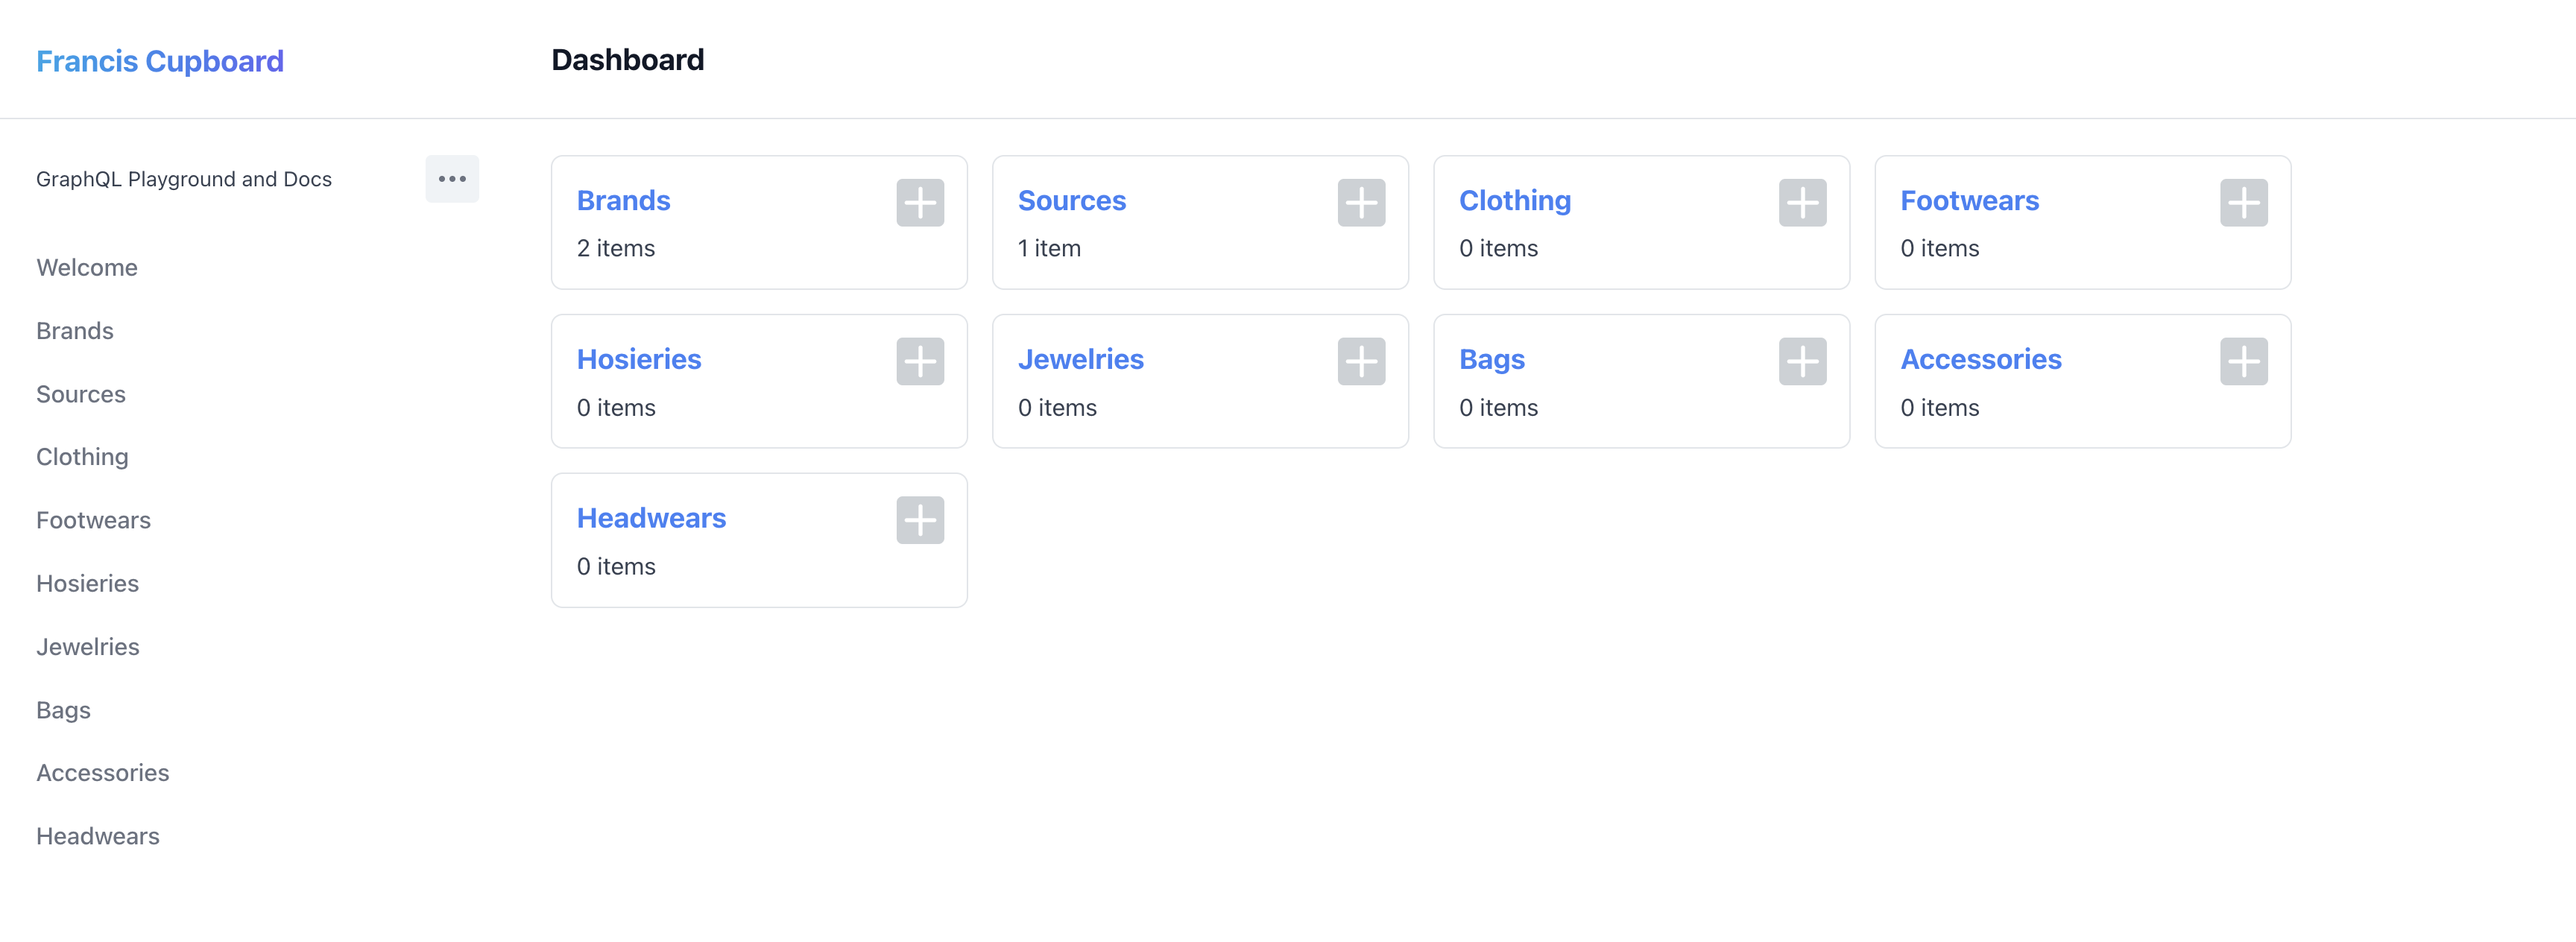
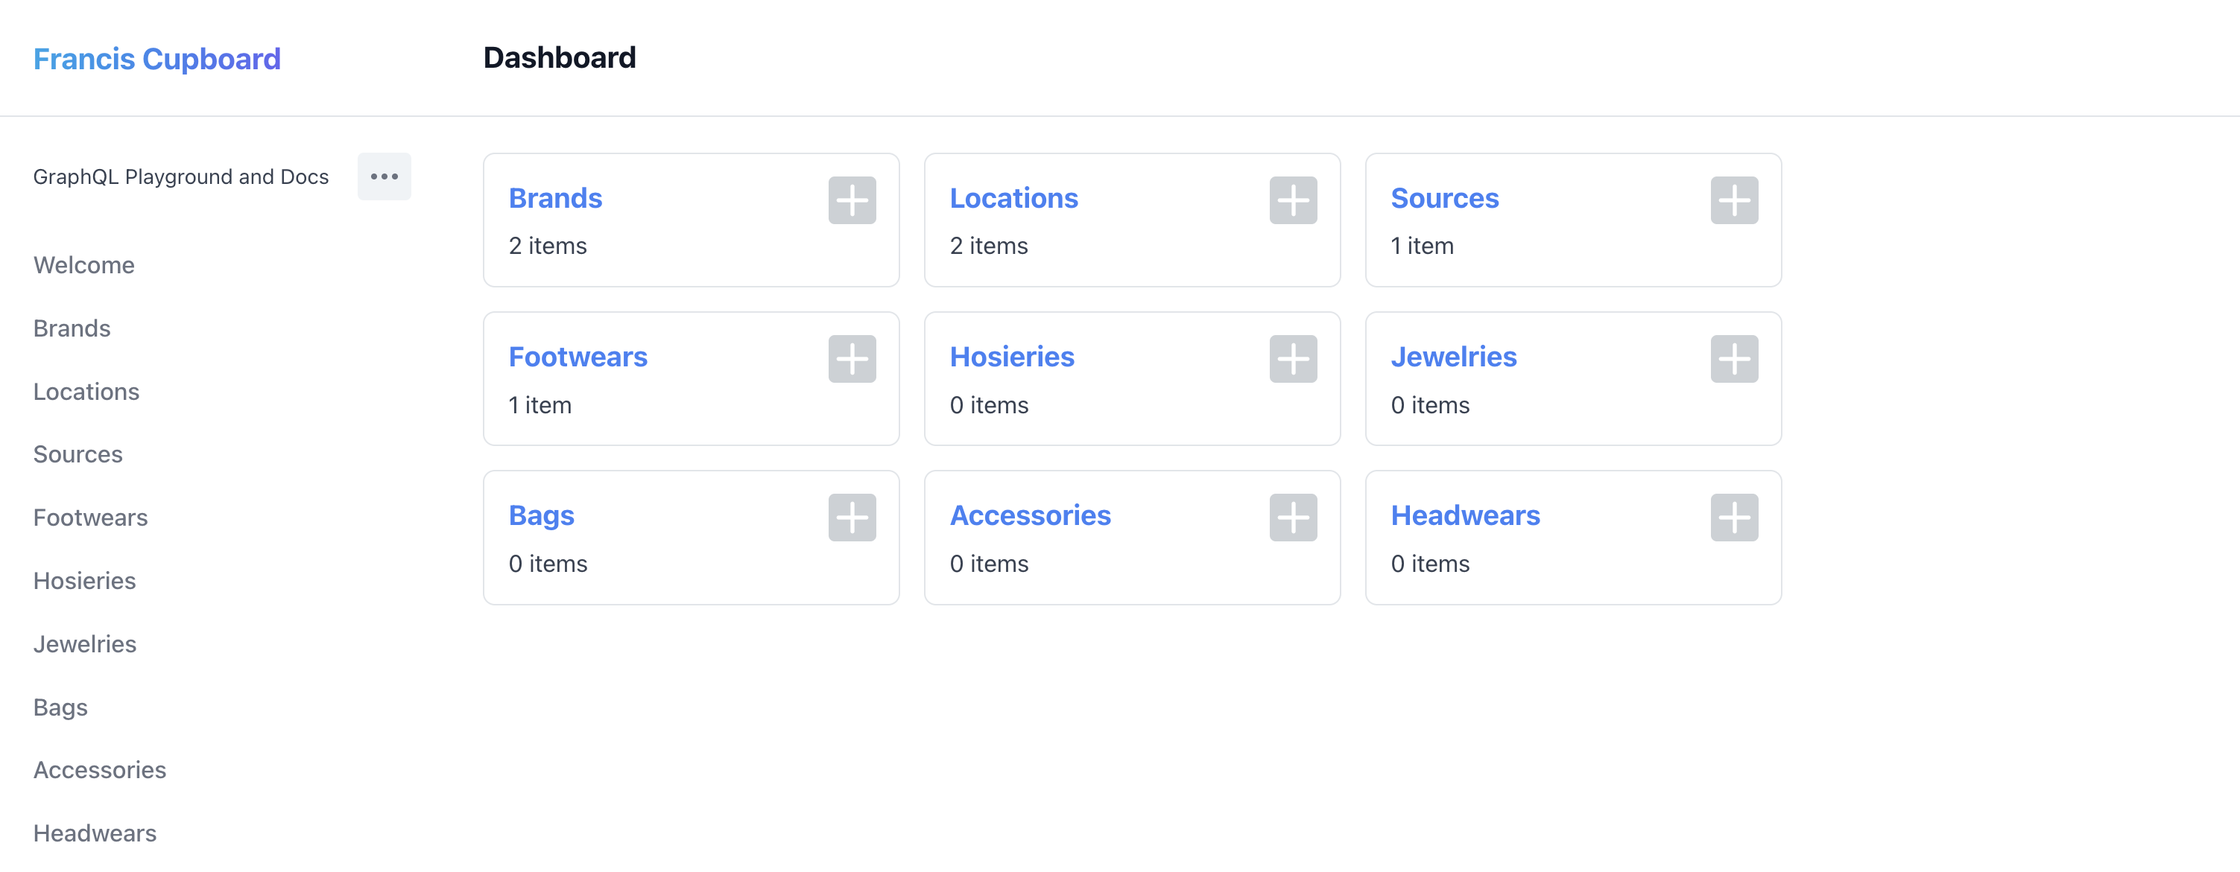
fix(welcome-page): add readme screenshots and remove id from edit view

diff --git a/admin/components/CustomNavigation.tsx b/admin/components/CustomNavigation.tsx
@@ -1,15 +1,61 @@
-import React from 'react'
+import React, { useEffect } from 'react'
+import { useRouter } from 'next/router'
 
 import { ListNavItems, NavigationContainer, NavItem } from '@keystone-6/core/admin-ui/components'
 
 import type { NavigationProps } from '@keystone-6/core/admin-ui/components'
 
+function RedirectAfterCreate() {
+  const router = useRouter()
+
+  useEffect(() => {
+    const createPath = router.asPath.split(/[?#]/)[0]
+    const match = /^\/([^/]+)\/create$/.exec(createPath)
+
+    if (!match) {
+      return
+    }
+
+    const listPath = match[1]
+    const originalPush = router.push
+
+    router.push = (url, as, options) => {
+      const targetPath = typeof url === 'string' ? url : url.pathname ?? ''
+      const itemPath = new RegExp(`^/${listPath}/[^/?#]+(?:[?#]|$)`)
+
+      if (itemPath.test(targetPath)) {
+        window.location.assign(createPath)
+        return Promise.resolve(true)
+      }
+
+      return originalPush(url, as, options)
+    }
+
+    return () => {
+      router.push = originalPush
+    }
+  }, [router, router.asPath])
+
+  return null
+}
+
 export function CustomNavigation ({ lists, authenticatedItem }: NavigationProps) {
- // lists.filter( ({key}) => !["Amount"].includes(key) )
   return (
-    <NavigationContainer authenticatedItem={authenticatedItem}>
-      <NavItem href="/welcome">Welcome</NavItem>
-      <ListNavItems lists={lists} />
-    </NavigationContainer>
+    <>
+      <style>{`
+        label:has(+ div input[readonly]) {
+          display: none;
+        }
+
+        label:has(+ div input[readonly]) + div {
+          display: none;
+        }
+      `}</style>
+      <RedirectAfterCreate />
+      <NavigationContainer authenticatedItem={authenticatedItem}>
+        <NavItem href="/welcome">Welcome</NavItem>
+        <ListNavItems lists={lists} />
+      </NavigationContainer>
+    </>
   )
 }

diff --git a/README.md b/README.md
@@ -2,7 +2,14 @@
 
 Cupboard is a wardrobe inventory management system.
 
-<img src="public/images/dashboard_screenshot.png" width="700px">
+<img src="public/images/welcome_dashboard_screenshot.png" width="700px" alt="Welcome Page Screenshot">
+<sub><sup>Welcome View Screenshot</sup></sub>
+
+<img src="public/images/dashboard_screenshot.png" width="700px" alt="Dashboard Page Screenshot">
+<sub><sup>Dashboard View Screenshot</sup></sub>
+
+<img src="public/images/list_view_screenshot.png" width="700px" alt="Dashboard Page Screenshot">
+<sub><sup>List View Screenshot</sup></sub>
 
 ## Initial setup
 
